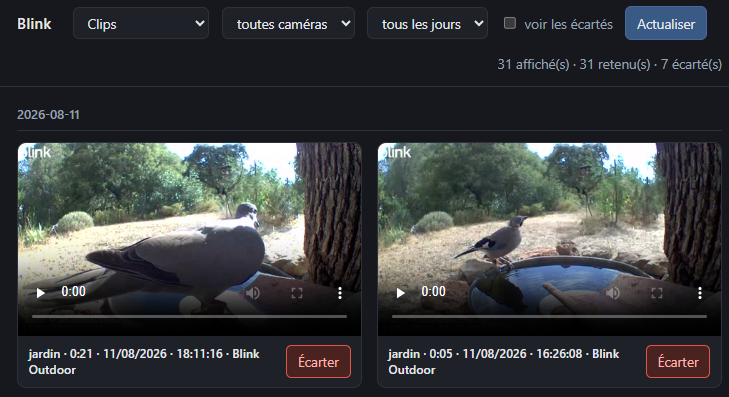
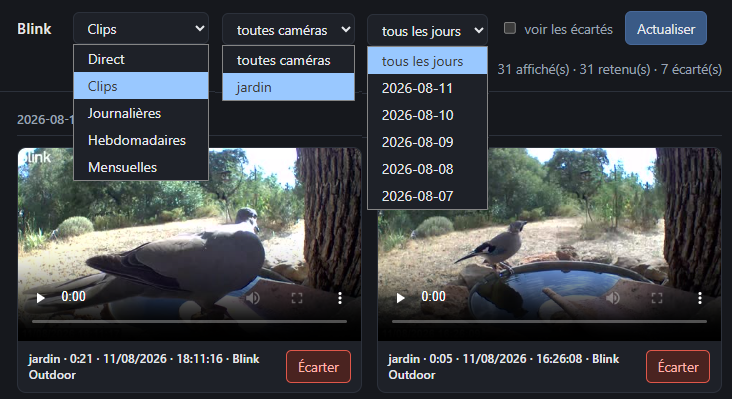
Première capture d'écran : l'onglet Clips

diff --git a/README.fr.md b/README.fr.md
@@ -33,7 +33,11 @@ Tout tourne sur votre machine. Rien n'est envoyé ailleurs.
 
 ## Captures d'écran
 
-*(à venir)*
+![L'onglet Clips](Screenshots/serve1.PNG)
+
+Les clips du plus récent au plus ancien, filtrables par caméra et par jour.
+Chaque carte donne la caméra, la durée, la date et le modèle, et le bouton
+« Écarter » retire le clip de toutes les vidéos assemblées.
 
 ## Installation
 

diff --git a/README.md b/README.md
@@ -30,7 +30,11 @@ Everything runs on your machine. Nothing is sent anywhere.
 
 ## Screenshots
 
-*(coming)*
+![The Clips tab](Screenshots/serve1.PNG)
+
+Clips newest first, filtered by camera and by day. Each card gives the camera,
+the duration, the date and the model, and the "Écarter" button removes the clip
+from every assembled video.
 
 ## Installation
 
